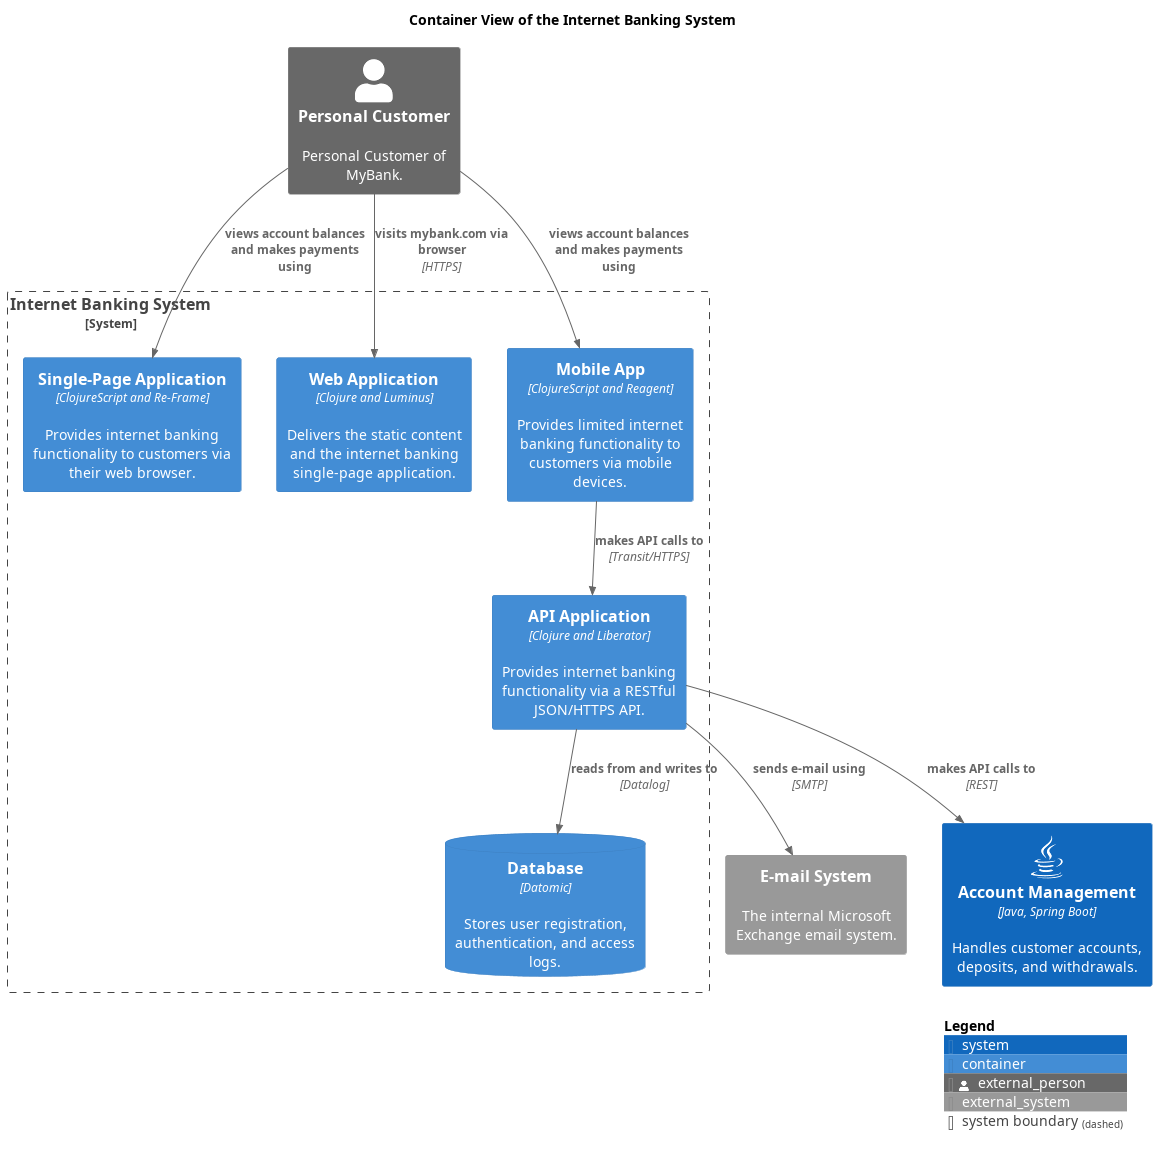
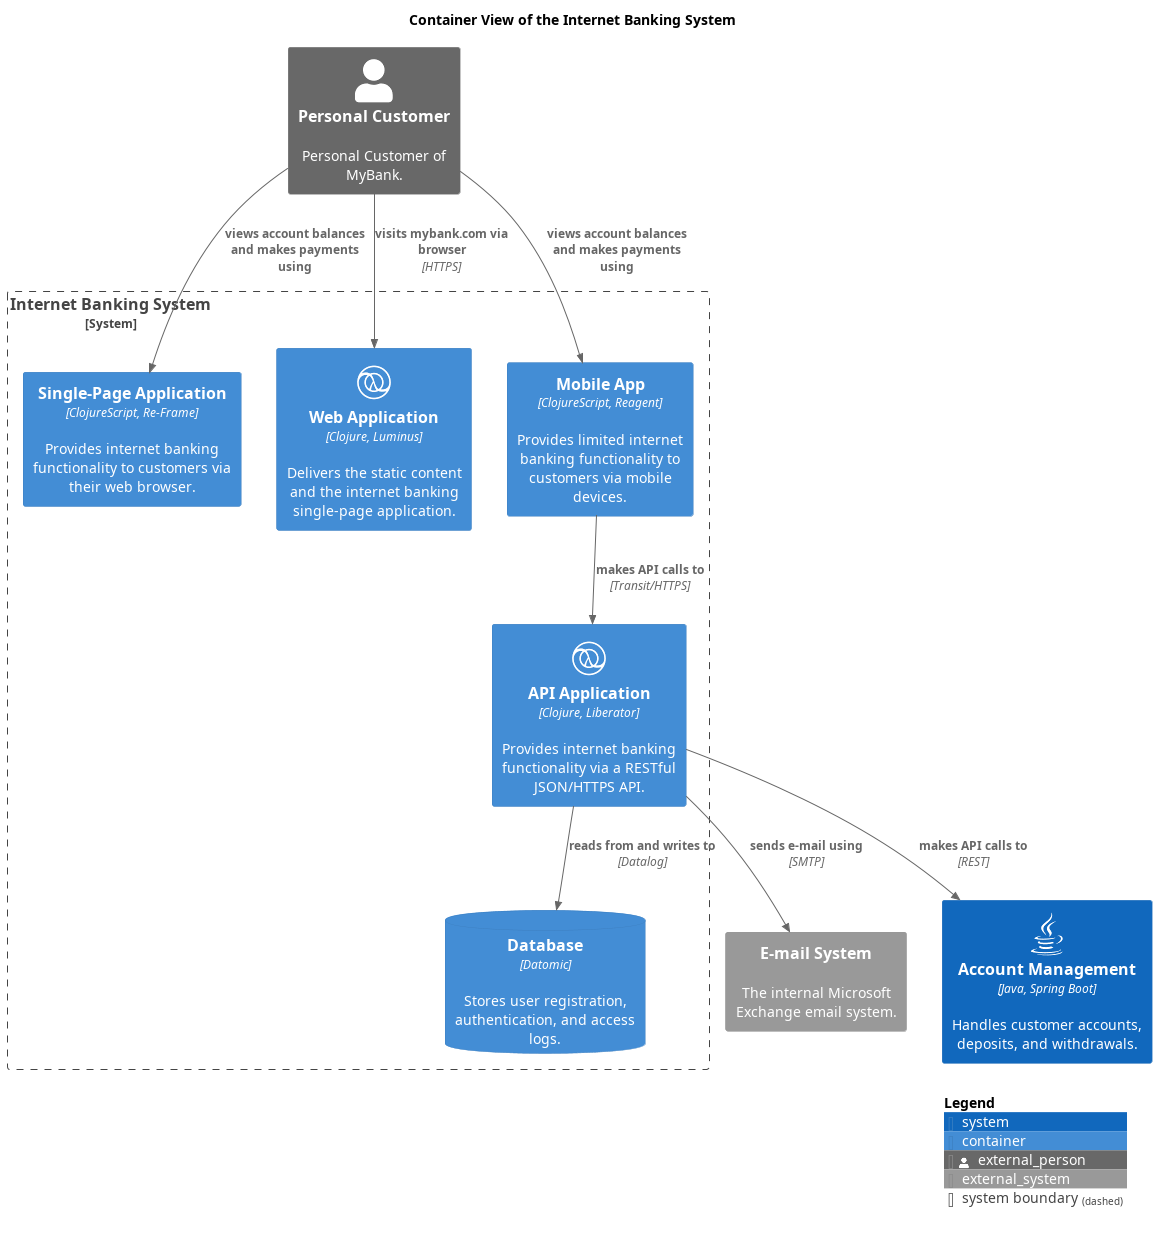
updated generated docs

diff --git a/docs/mybank/digital-banking/internet-banking-system/mobile-app.md b/docs/mybank/digital-banking/internet-banking-system/mobile-app.md
@@ -7,7 +7,7 @@ Provides limited internet banking functionality to customers via mobile devices.
 [Internet Banking System](../../../mybank/digital-banking/internet-banking-system/internet-banking-system.md)
 
 ## Technology
-ClojureScript and Reagent
+ClojureScript, Reagent
 ## Incoming Synchronous Requests 
 | From | Name | To | Technology | Description |
 |---|---|---|---|---|

diff --git a/docs/mybank/digital-banking/internet-banking-system/single-page-app.md b/docs/mybank/digital-banking/internet-banking-system/single-page-app.md
@@ -7,7 +7,7 @@ Provides internet banking functionality to customers via their web browser.
 [Internet Banking System](../../../mybank/digital-banking/internet-banking-system/internet-banking-system.md)
 
 ## Technology
-ClojureScript and Re-Frame
+ClojureScript, Re-Frame
 ## Incoming Synchronous Requests 
 | From | Name | To | Technology | Description |
 |---|---|---|---|---|

diff --git a/docs/mybank/digital-banking/internet-banking-system/web-app.md b/docs/mybank/digital-banking/internet-banking-system/web-app.md
@@ -7,7 +7,7 @@ Delivers the static content and the internet banking single-page application.
 [Internet Banking System](../../../mybank/digital-banking/internet-banking-system/internet-banking-system.md)
 
 ## Technology
-Clojure and Luminus
+Clojure, Luminus
 ## Incoming Synchronous Requests 
 | From | Name | To | Technology | Description |
 |---|---|---|---|---|

diff --git a/docs/mybank/digital-banking/internet-banking-system/core-banking-systems-facade.md b/docs/mybank/digital-banking/internet-banking-system/core-banking-systems-facade.md
@@ -7,7 +7,7 @@ Facilitates interaction with the core banking systems.
 [API Application](../../../mybank/digital-banking/internet-banking-system/api-application.md)
 
 ## Technology
-Clojure Namespace, http-client
+Clojure, Namespace, Http Client
 ## Incoming Synchronous Requests 
 | From | Name | To | Technology | Description |
 |---|---|---|---|---|

diff --git a/docs/mybank/digital-banking/internet-banking-system/accounts-summary-controller.md b/docs/mybank/digital-banking/internet-banking-system/accounts-summary-controller.md
@@ -7,7 +7,7 @@ Provides customers with a summary of their bank accounts.
 [API Application](../../../mybank/digital-banking/internet-banking-system/api-application.md)
 
 ## Technology
-Clojure namespace
+Clojure, Namespace
 ## Incoming Synchronous Requests 
 | From | Name | To | Technology | Description |
 |---|---|---|---|---|

diff --git a/docs/mybank/digital-banking/internet-banking-system/security-component.md b/docs/mybank/digital-banking/internet-banking-system/security-component.md
@@ -7,7 +7,7 @@ Handles authentication, password changes, etc.
 [API Application](../../../mybank/digital-banking/internet-banking-system/api-application.md)
 
 ## Technology
-Clojure namespace
+Clojure, Namespace
 ## Incoming Synchronous Requests 
 | From | Name | To | Technology | Description |
 |---|---|---|---|---|

diff --git a/docs/mybank/digital-banking/internet-banking-system/sign-in-controller.md b/docs/mybank/digital-banking/internet-banking-system/sign-in-controller.md
@@ -7,7 +7,7 @@ Allows users to sign in to the banking system.
 [API Application](../../../mybank/digital-banking/internet-banking-system/api-application.md)
 
 ## Technology
-Clojure namespace
+Clojure, Namespace
 ## Incoming Synchronous Requests 
 | From | Name | To | Technology | Description |
 |---|---|---|---|---|

diff --git a/docs/mybank/digital-banking/internet-banking-system/reset-password-controller.md b/docs/mybank/digital-banking/internet-banking-system/reset-password-controller.md
@@ -7,7 +7,7 @@ Allows users to reset their passwords.
 [API Application](../../../mybank/digital-banking/internet-banking-system/api-application.md)
 
 ## Technology
-Clojure namespace
+Clojure, Namespace
 ## Incoming Synchronous Requests 
 | From | Name | To | Technology | Description |
 |---|---|---|---|---|

diff --git a/docs/mybank/digital-banking/internet-banking-system/api-application.md b/docs/mybank/digital-banking/internet-banking-system/api-application.md
@@ -7,7 +7,7 @@ Provides internet banking functionality via a RESTful JSON/HTTPS API.
 [Internet Banking System](../../../mybank/digital-banking/internet-banking-system/internet-banking-system.md)
 
 ## Technology
-Clojure and Liberator
+Clojure, Liberator
 ## Components
 | Component | Description |
 |---|---|

diff --git a/docs/mybank/digital-banking/internet-banking-system/email-component.md b/docs/mybank/digital-banking/internet-banking-system/email-component.md
@@ -7,7 +7,7 @@ Sends e-mails to users.
 [API Application](../../../mybank/digital-banking/internet-banking-system/api-application.md)
 
 ## Technology
-Clojure namespace
+Clojure, Namespace
 ## Incoming Synchronous Requests 
 | From | Name | To | Technology | Description |
 |---|---|---|---|---|
